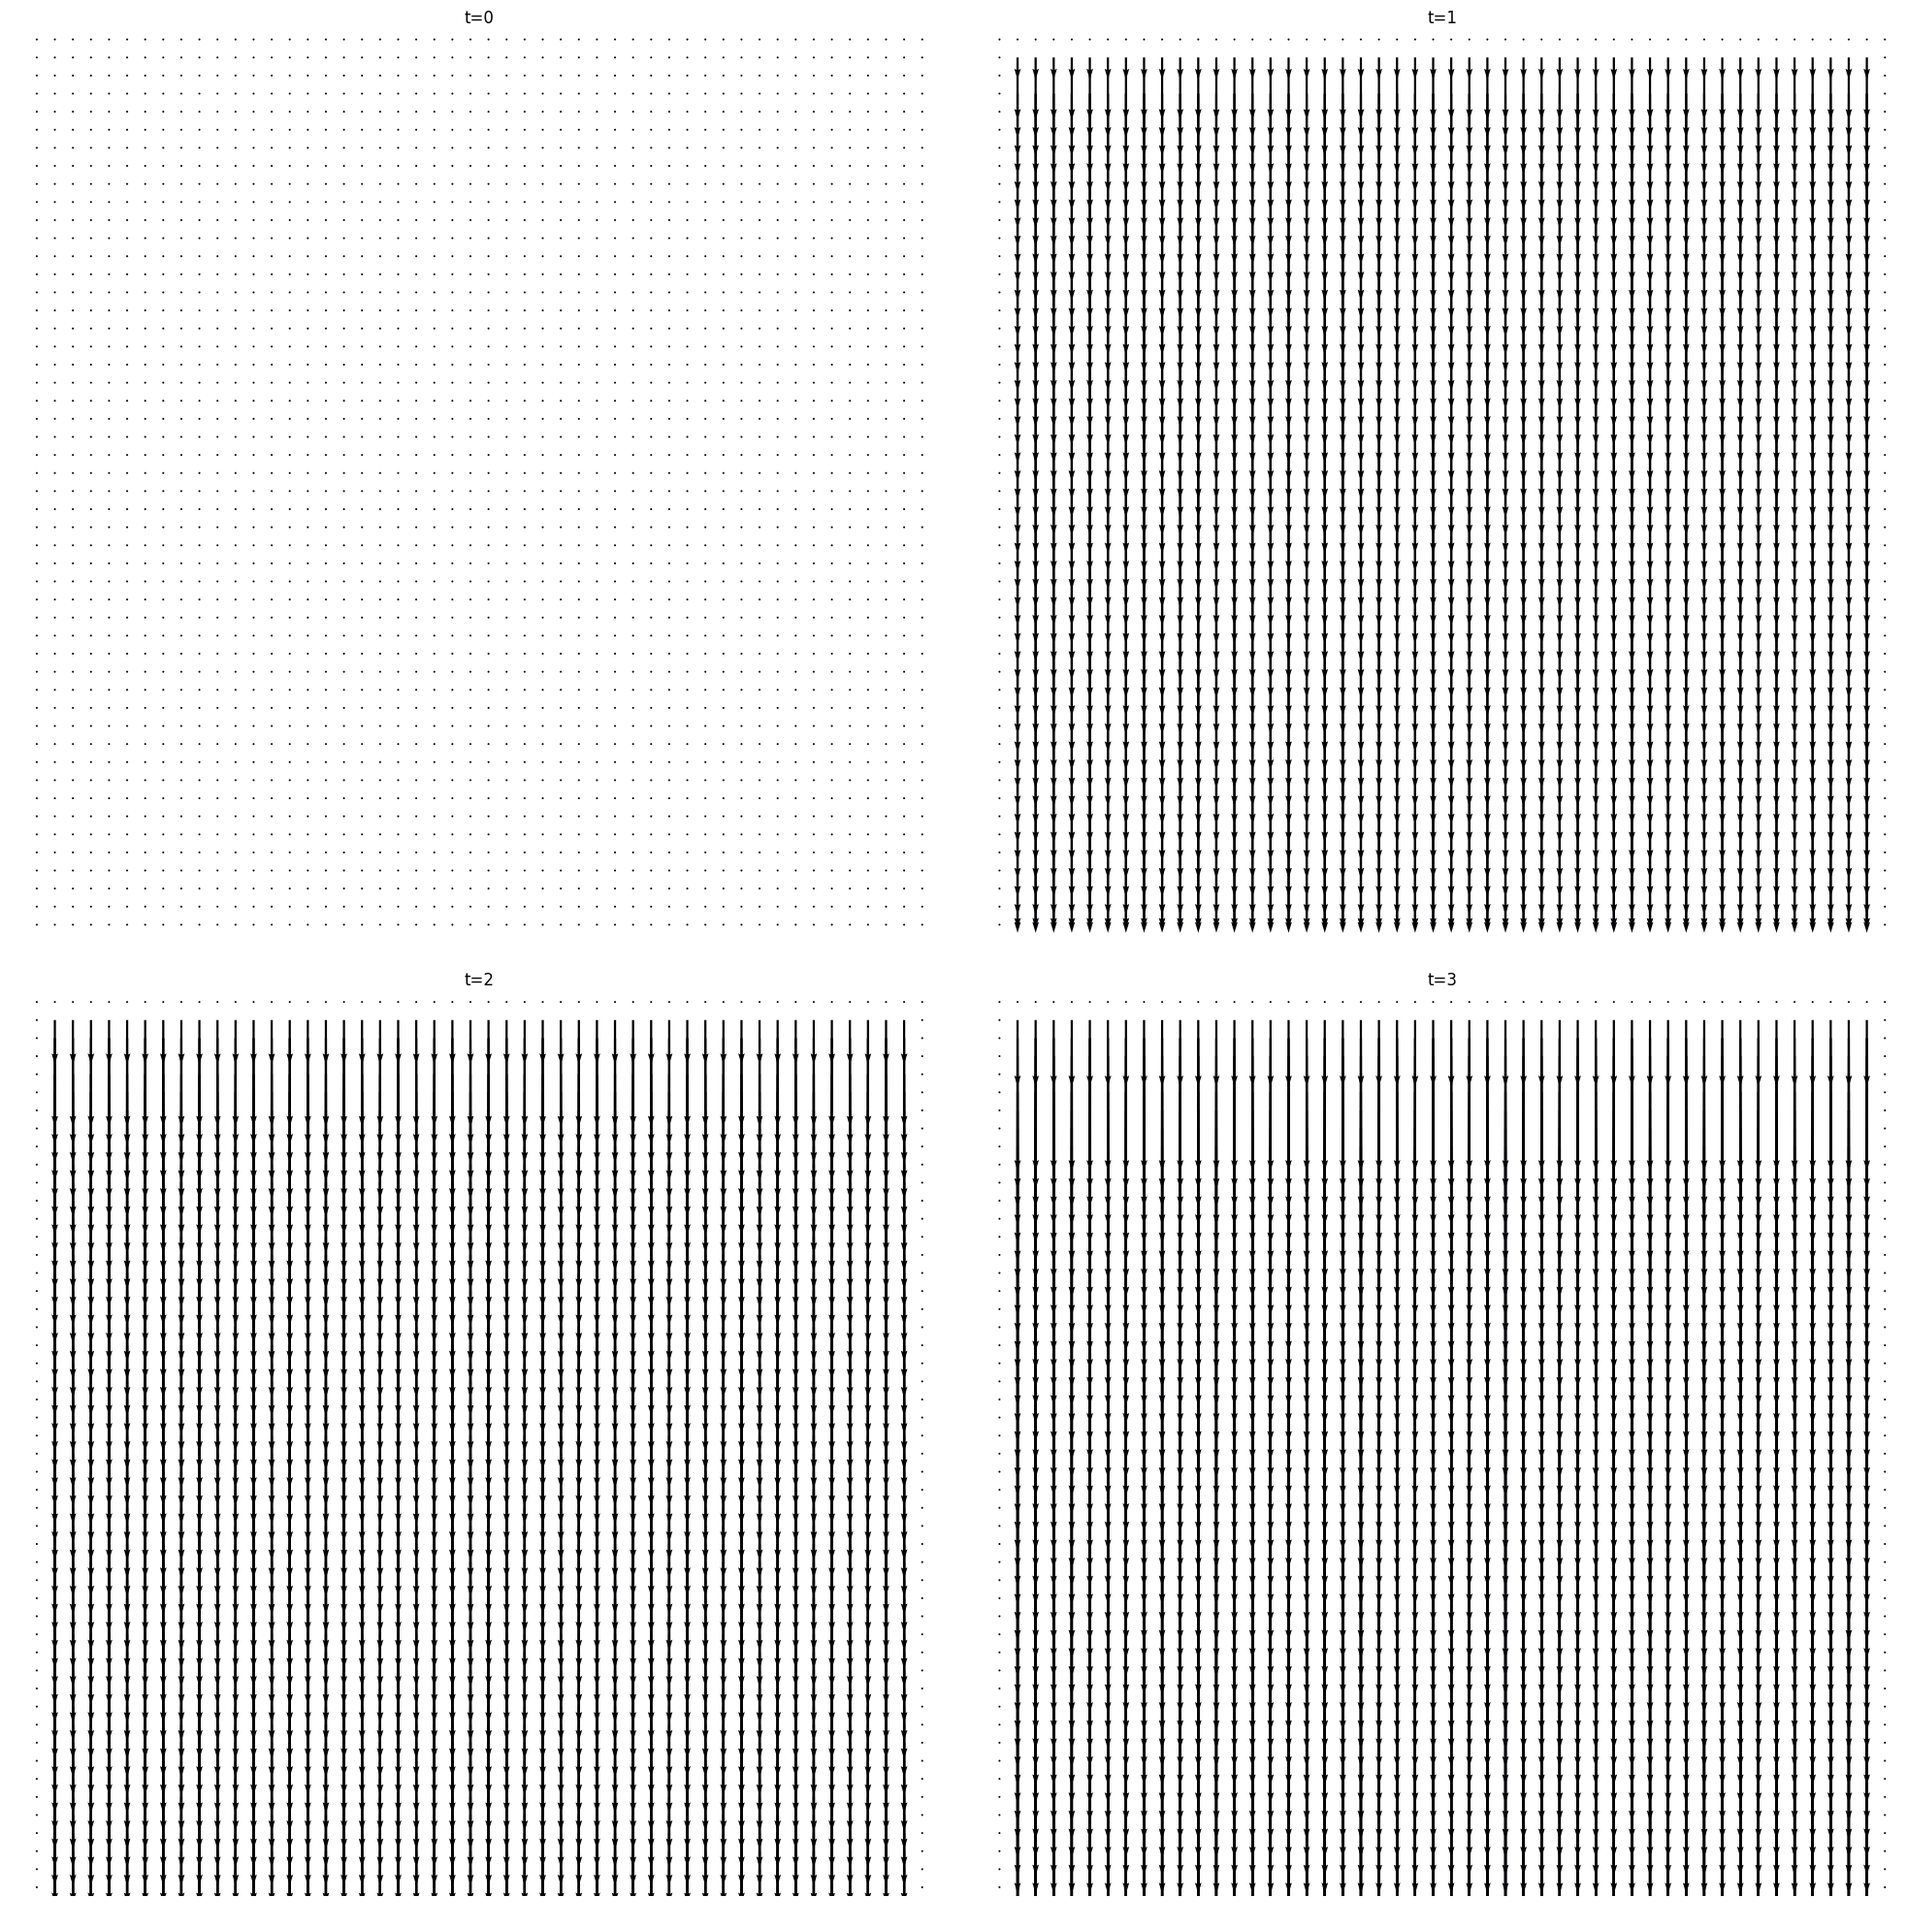
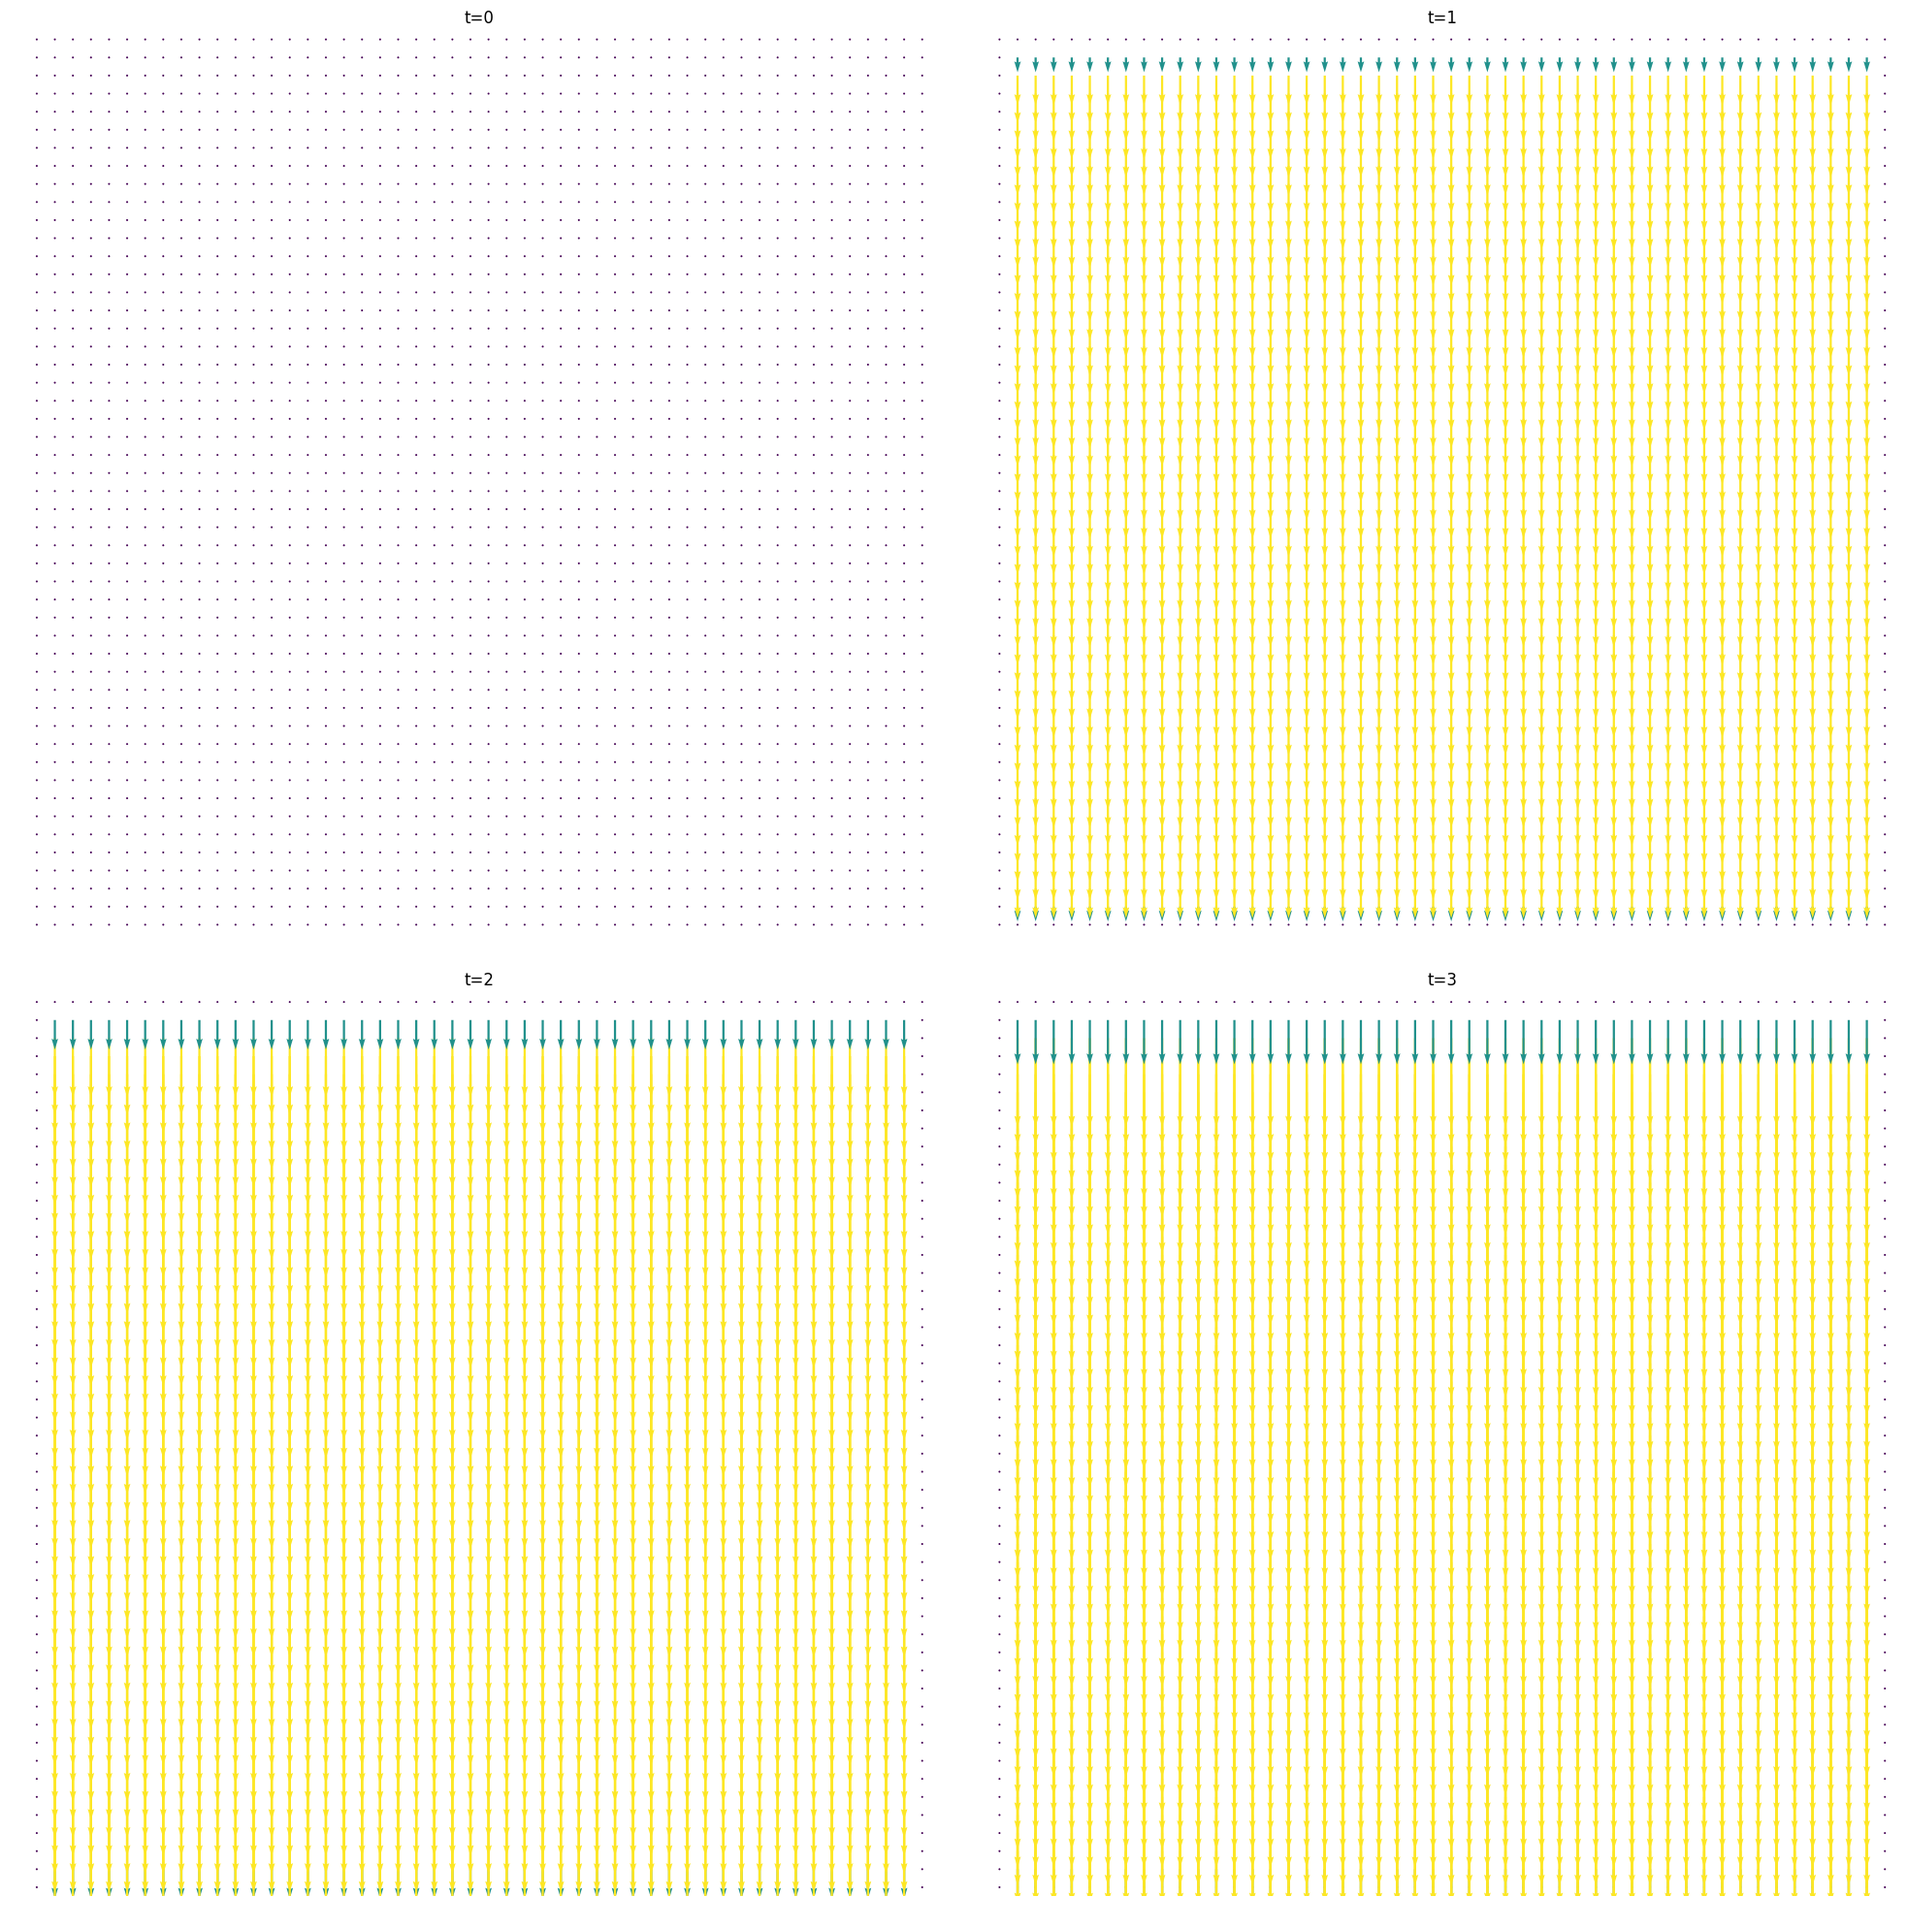
matplotlib arrows have color now

Changed region(s): [[0.5275, 0.5299, 0.9929, 0.9975], [0.5275, 0.0312, 0.9929, 0.4987], [0.031, 0.5299, 0.4654, 0.9975]]

diff --git a/plot/plot.py b/plot/plot.py
@@ -52,8 +52,8 @@ for i, ax in enumerate(axs.reshape(-1)):
         xi,
         yi,
         boundaryi,
-        levels=2,
-        linewidths=0.5,
+        levels=10,
+        linewidths=2,
         cmap="RdBu_r")
 
     ax.set_title("t=" + str(i))
@@ -73,19 +73,15 @@ if len(datablocks) == 1:
 
 for i, ax in enumerate(axs.reshape(-1)):
     x, y, u, v = np.loadtxt(datablocks[i], unpack=True)
-    colors = np.sqrt(u**2, v**2)
-    norm = Normalize()
-    norm.autoscale(colors)
-    colormap = cm.inferno
-
+    
     ax.set_xlim(0, 5)
     ax.set_ylim(0, 5)
     ax.set_title("t=" + str(i))
     ax.set_aspect("equal")
     ax.axis('off')
 
-    ax.quiver(x, y, u, v, color=colormap(norm(colors)),
-              angles='xy', scale_units='xy', scale=10)
+    ax.quiver(x, y, u, v, np.sqrt(u**2 + v**2),
+              angles='xy', scale_units='xy', scale=15)
 
 fig.tight_layout()
 plt.savefig('plot/images/vel.png', bbox_inches='tight')
